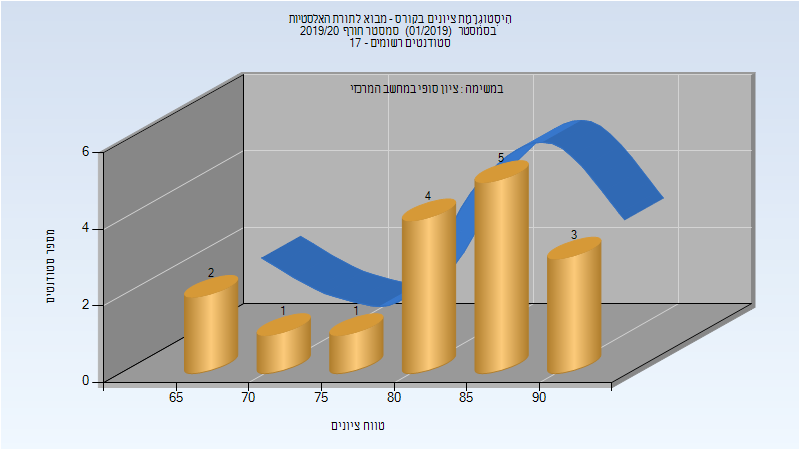
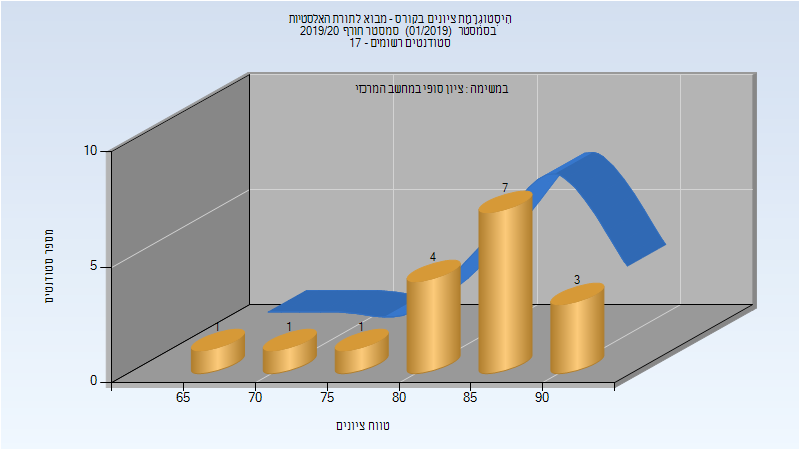
Deploy michael-maltsev/technion-histograms to github.com/michael-maltsev/technion-histograms.git:gh-pages

diff --git a/035043/index.html b/035043/index.html
@@ -212,13 +212,13 @@
 </thead>
 <tbody>
 <tr>
-<td>16</td>
-<td>16/0</td>
+<td>17</td>
+<td>17/0</td>
 <td>100</td>
-<td>65</td>
+<td>69</td>
 <td>92</td>
-<td>82.188</td>
-<td>84</td>
+<td>83.824</td>
+<td>86</td>
 </tr>
 </tbody>
 </table>

diff --git a/035043/README.md b/035043/README.md
@@ -64,5 +64,5 @@
 
 | סטודנטים | עברו/נכשלו | אחוז עוברים | ציון מינימלי | ציון מקסימלי | ממוצע | חציון |
 | ---- | ---- | ---- | ---- | ---- | ---- | ---- |
-| 16 | 16/0 | 100 | 65 | 92 | 82.188 | 84 |
+| 17 | 17/0 | 100 | 69 | 92 | 83.824 | 86 |
 
